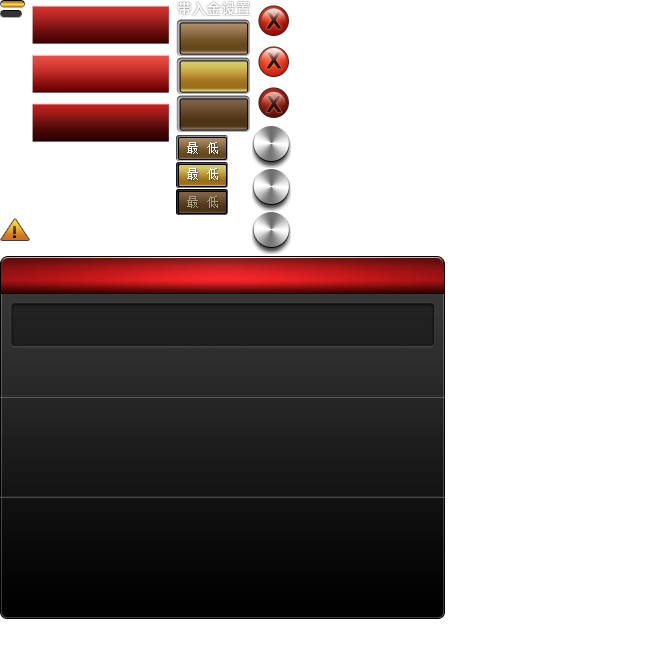
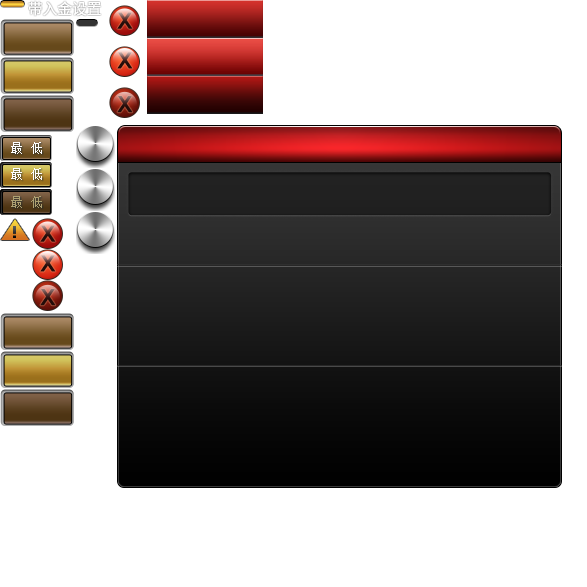
assein bug fix

diff --git a/bull_h5/bin/h5/bull_h5.max.js b/bull_h5/bin/h5/bull_h5.max.js
@@ -19430,7 +19430,7 @@ var Laya=window.Laya=(function(window,document){
 		*
 		*/
 		__proto.rechargeShow=function(type,callBack){
-			this.KGAPI.rechargeShow(callBack.method.bind(callBack.caller));
+			this.KGAPI.rechargeShow(callBack.method.bind(callBack.caller),type);
 		}
 
 		return KGH5;
@@ -20435,16 +20435,16 @@ var Laya=window.Laya=(function(window,document){
 				sp.width=Light.root.stage.width;
 				sp.height=Light.root.stage.height;
 				sp.mouseEnabled=true;
-				PopupManager.objDic[window]=sp;
+				PopupManager.objDic.set(window,sp);
 				}else{
 				parent.addChild(window);
-				PopupManager.objDic[window]=window;
+				PopupManager.objDic.set(window,sp);
 			}
 		}
 
 		PopupManager.removePopUp=function(popUp){
-			var sp=PopupManager.objDic[popUp];
-			delete PopupManager.objDic[popUp];
+			var sp=PopupManager.objDic.get(popUp);
+			PopupManager.objDic.remove(popUp);
 			if(popUp.parent){
 				popUp.parent.removeChild(popUp);
 			}
@@ -30212,13 +30212,13 @@ var Laya=window.Laya=(function(window,document){
 				betMin=(config.min_bet / 100)*10;
 				betMax=(this.roomData.player_Money.cash)/ 100;
 				nm=0;
-				hint="玩家上庄桌，不允许带入拟码。";
+				this.getAssetsPanel().tip="玩家上庄桌，不允许带入拟码。";
 			}
 			else{
 				betMin=(config.min_bet / 100)*10;
 				betMax=(this.roomData.player_Money.cash+this.roomData.player_Money.nm)/ 100;
 				nm=this.roomData.player_Money.nm;
-				hint="投注优先扣除拟码";
+				this.getAssetsPanel().tip="投注优先扣除拟码";
 			}
 			if (betMax < betMin){
 				Alert.show(Light.language.getSrting("alert_msg7"),"",AlertCancelPanel,null,Handler.create(this,this.GotoRecharge));
@@ -33943,6 +33943,7 @@ var Laya=window.Laya=(function(window,document){
 		LightEvent.ITEM_CLICK="item_click";
 		LightEvent.CREATCOMPLETE="creatComplete";
 		LightEvent.CHANGE="change";
+		LightEvent.USERINFO_CHANGE="userinfo_change";
 		LightEvent.COMPLETE="complete";
 		LightEvent.TIME_OUT="timeOut";
 		return LightEvent;
@@ -34182,7 +34183,9 @@ var Laya=window.Laya=(function(window,document){
 			this._interval=3000;
 			this.isReConnect=false;
 			this.name=null;
-			this._isConnectError=false;
+			this._isConnectingError=false;
+			this._isClose=false;
+			this._isConneced=false;
 			this._lengthNeedReceived=0;
 			this._hasReededHead=false;
 			this._dataByte=null;
@@ -34205,7 +34208,16 @@ var Laya=window.Laya=(function(window,document){
 
 		__proto.onConnectError=function(){
 			console.log("onConnectError");
-			this._isConnectError=true;
+			this._isConnectingError=true;
+			if(this._isConnectingError && this._isClose){
+				this.sentEvent();
+			}
+		}
+
+		__proto.sentEvent=function(){
+			console.log("连接失败");
+			this._isConnectingError=false;
+			this._isClose=false;
 			this.dispatchEvent(new SocketConnectEvent("connectFail"));
 		}
 
@@ -34218,6 +34230,8 @@ var Laya=window.Laya=(function(window,document){
 		__proto.connect=function(host,port){
 			this._host=host;
 			this._port=port;
+			this._isConnectingError=false;
+			this._isClose=false;
 			console.log("[SocketConnect] ","connect",host,port,this._currRetryTimes,this._retryTimes);
 			this._socket.connect(host,port);
 			this._currRetryTimes++;
@@ -34247,6 +34261,7 @@ var Laya=window.Laya=(function(window,document){
 			if ((typeof message=='string')){
 				console.log("is String");
 				}else if ((message instanceof ArrayBuffer)){
+				console.log("is ArrayBuffer");
 				this._dataByte=new Byte(message);
 				this._dataByte.endian="bigEndian";
 				this.dispatchEvent(new SocketConnectEvent("receive",this._dataByte));
@@ -34255,22 +34270,27 @@ var Laya=window.Laya=(function(window,document){
 
 		__proto.onSocketOpen=function(evt){
 			console.log('Socket connect success！',this._port);
+			this._isConneced=true;
 			this._currRetryTimes=0;
 			this.dispatchEvent(new SocketConnectEvent("connect"));
 		}
 
 		__proto.onSocketClose=function(evt){
-			console.log("onSocketClose")
-			if(this._isConnectError){
-				this._isConnectError=false;
-				return;
+			this._isClose=true;
+			console.log("SocketConnect onSocketClose",this._socket.connected,this._isConnectingError,this._isClose)
+			if(this._isConneced){
+				console.log("关闭连接");
+				this.clear();
+				this.dispatchEvent(new SocketConnectEvent("close"));
+				this.dispatchEvent(new SocketConnectEvent("connection dropped"));
+				}else{
+				if(this._isConnectingError && this._isClose){
+					this.sentEvent();
+				}
 			}
-			this.clear();
-			this.dispatchEvent(new SocketConnectEvent("close"));
-			this.dispatchEvent(new SocketConnectEvent("connection dropped"));
+			this._isConneced=false;
 		}
 
-		//reconnect();
 		__proto.clear=function(){
 			this._currRetryTimes=0;
 		}
@@ -51026,7 +51046,7 @@ var Laya=window.Laya=(function(window,document){
 		}
 
 		__static(AssetsInSliderUI,
-		['uiView',function(){return this.uiView={"type":"View","props":{"width":430,"runtime":"com.lightUI.KGameComponents.assetsInPanel.AssetsInSlider","height":45},"child":[{"type":"HSlider","props":{"y":17,"x":89,"width":251,"var":"slider","skin":"assetsIn/hslider.png","showLabel":false,"height":50}},{"type":"Button","props":{"y":1,"x":0,"var":"min_btn","skin":"assetsIn/highest.png"}},{"type":"Button","props":{"y":-2,"x":350,"var":"max_btn","skin":"assetsIn/highest.png"}},{"type":"Label","props":{"y":7,"x":363,"width":49,"text":"最 高","mouseEnabled":false,"height":28,"fontSize":20,"color":"#f6ebea"}},{"type":"Label","props":{"y":9,"x":14,"width":49,"text":"最 低","mouseEnabled":false,"height":28,"fontSize":20,"color":"#f6ebea"}},{"type":"Image","props":{"y":15,"x":82,"width":24,"var":"slider_bar","skin":"assetsIn/bar_hslider.png","sizeGrid":"1,7,1,4","height":12}}]};}
+		['uiView',function(){return this.uiView={"type":"View","props":{"width":430,"runtime":"com.lightUI.KGameComponents.assetsInPanel.AssetsInSlider","height":45},"child":[{"type":"HSlider","props":{"y":17,"x":81,"width":265,"var":"slider","skin":"assetsIn/hslider.png","showLabel":false,"height":50}},{"type":"Button","props":{"y":1,"x":0,"var":"min_btn","skin":"assetsIn/标签按钮常态.png"}},{"type":"Button","props":{"y":1,"x":350,"var":"max_btn","skin":"assetsIn/标签按钮常态.png"}},{"type":"Label","props":{"y":9,"x":364,"width":49,"text":"最 高","mouseEnabled":false,"height":28,"fontSize":20,"color":"#f6ebea"}},{"type":"Label","props":{"y":9,"x":14,"width":49,"text":"最 低","mouseEnabled":false,"height":28,"fontSize":20,"color":"#f6ebea"}},{"type":"Image","props":{"y":16,"x":88,"width":259,"var":"slider_bar","skin":"assetsIn/bar_hslider.png","sizeGrid":"1,7,1,4","height":12}}]};}
 		]);
 		return AssetsInSliderUI;
 	})(View)
@@ -54220,7 +54240,7 @@ var Laya=window.Laya=(function(window,document){
 		}
 
 		__static(LargePanelUI,
-		['uiView',function(){return this.uiView={"type":"Dialog","props":{"width":445,"height":573},"child":[{"type":"Image","props":{"y":0,"x":0,"skin":"assetsIn/longPanel.png"}},{"type":"Button","props":{"y":512,"x":233,"var":"btn_canel","skin":"assetsIn/Btn_bg.png"}},{"type":"Button","props":{"y":511,"x":51,"var":"btn_ok","skin":"assetsIn/Btn_bg.png"}},{"type":"Label","props":{"y":478,"x":68,"width":300,"var":"tips_txt","text":"拟码无法在 JackPot 和 Bonus 上使用!","height":30,"fontSize":15,"font":"微软雅黑","color":"#FF6511","align":"left"}},{"type":"Button","props":{"y":-2,"x":405,"var":"btnClose","skin":"assetsIn/closeBtn.png"}},{"type":"Label","props":{"y":53,"x":17,"width":412,"var":"roomName_txt","text":"新手桌","height":35,"fontSize":25,"color":"#b5b5b5","align":"center"}},{"type":"Label","props":{"y":102,"x":56,"width":106,"text":"带入范围：","height":33,"fontSize":20,"font":"微软雅黑","color":"#aeaeae","align":"center"}},{"type":"Label","props":{"y":105,"x":232,"width":196,"var":"range_txt","text":"0.3-0.7","height":26,"fontSize":20,"color":"#FFFFFF","align":"right"}},{"type":"Label","props":{"y":146,"x":59,"width":99,"text":"可用现金：","height":30,"fontSize":20,"font":"微软雅黑","color":"#aeaeae","align":"center"}},{"type":"Label","props":{"y":252,"x":55,"width":99,"text":"可用拟码：","name":"roomName_txt","height":33,"fontSize":20,"font":"微软雅黑","color":"#aeaeae","align":"center"}},{"type":"Label","props":{"y":366,"x":115,"width":168,"var":"amount_total_txt","text":"0.3-0.7","height":20,"fontSize":18,"color":"#FFFFFF","align":"left"}},{"type":"Label","props":{"y":148,"x":268,"width":161,"var":"total_cash_txt","text":"0.3-0.7","height":27,"fontSize":20,"color":"#FFFFFF","align":"right"}},{"type":"Label","props":{"y":421,"x":40,"width":61,"text":"拟 码：","height":30,"fontSize":18,"font":"微软雅黑","color":"#aeaeae","bold":false,"align":"left"}},{"type":"Label","props":{"y":362,"x":40,"width":58,"text":"总 计：","height":25,"fontSize":18,"font":"微软雅黑","color":"#aeaeae","align":"left"}},{"type":"Label","props":{"y":391,"x":40,"width":58,"text":"现 金：","height":28,"fontSize":18,"font":"微软雅黑","color":"#aeaeae","align":"left"}},{"type":"Label","props":{"y":257,"x":345,"width":85,"var":"total_nm_txt","text":"0.3-0.7","height":30,"fontSize":20,"color":"#FFFFFF","align":"right"}},{"type":"Label","props":{"y":395,"x":115,"width":171,"var":"cash_txt","text":"0.3-0.7","height":16,"fontSize":18,"color":"#FFFFFF","align":"left"}},{"type":"Label","props":{"y":425,"x":115,"width":169,"var":"nm_txt","text":"0.3-0.7","height":16,"fontSize":18,"color":"#FFFFFF","align":"left"}},{"type":"Image","props":{"y":474,"x":16,"skin":"assetsIn/warn2.png"}},{"type":"AssetsInSlider","props":{"y":187,"x":10,"var":"cash_slider","runtime":"com.lightUI.KGameComponents.assetsInPanel.AssetsInSlider"}},{"type":"AssetsInSlider","props":{"y":295,"x":10,"var":"nm_slider","runtime":"com.lightUI.KGameComponents.assetsInPanel.AssetsInSlider"}},{"type":"Label","props":{"y":5,"x":160,"width":135,"text":"带入金设置","mouseEnabled":false,"height":29,"fontSize":25,"color":"#f6ebea"}},{"type":"Label","props":{"y":521,"x":277,"width":62,"text":"取 消","mouseEnabled":false,"height":29,"fontSize":25,"color":"#f6ebea"}},{"type":"Label","props":{"y":520,"x":97,"width":62,"text":"确 定","mouseEnabled":false,"height":29,"fontSize":25,"color":"#f6ebea"}}]};}
+		['uiView',function(){return this.uiView={"type":"Dialog","props":{"width":445,"height":573},"child":[{"type":"Image","props":{"y":0,"x":0,"skin":"assetsIn/longPanel.png"}},{"type":"Button","props":{"y":517,"x":243,"var":"btn_canel","skin":"assetsIn/常用按钮.png"}},{"type":"Button","props":{"y":517,"x":88,"var":"btn_ok","skin":"assetsIn/常用按钮.png"}},{"type":"Label","props":{"y":478,"x":68,"width":300,"var":"tips_txt","text":"拟码无法在 JackPot 和 Bonus 上使用!","height":30,"fontSize":15,"font":"微软雅黑","color":"#FF6511","align":"left"}},{"type":"Button","props":{"y":3,"x":410,"var":"btnClose","skin":"assetsIn/关闭02.png"}},{"type":"Label","props":{"y":53,"x":17,"width":412,"var":"roomName_txt","text":"新手桌","height":35,"fontSize":25,"color":"#b5b5b5","align":"center"}},{"type":"Label","props":{"y":102,"x":56,"width":106,"text":"带入范围：","height":33,"fontSize":20,"font":"微软雅黑","color":"#aeaeae","align":"center"}},{"type":"Label","props":{"y":105,"x":232,"width":196,"var":"range_txt","text":"0.3-0.7","height":26,"fontSize":20,"color":"#FFFFFF","align":"right"}},{"type":"Label","props":{"y":146,"x":59,"width":99,"text":"可用现金：","height":30,"fontSize":20,"font":"微软雅黑","color":"#aeaeae","align":"center"}},{"type":"Label","props":{"y":252,"x":55,"width":99,"text":"可用拟码：","name":"roomName_txt","height":33,"fontSize":20,"font":"微软雅黑","color":"#aeaeae","align":"center"}},{"type":"Label","props":{"y":366,"x":115,"width":168,"var":"amount_total_txt","text":"0.3-0.7","height":20,"fontSize":18,"color":"#FFFFFF","align":"left"}},{"type":"Label","props":{"y":148,"x":268,"width":161,"var":"total_cash_txt","text":"0.3-0.7","height":27,"fontSize":20,"color":"#FFFFFF","align":"right"}},{"type":"Label","props":{"y":421,"x":40,"width":61,"text":"拟 码：","height":30,"fontSize":18,"font":"微软雅黑","color":"#aeaeae","bold":false,"align":"left"}},{"type":"Label","props":{"y":362,"x":40,"width":58,"text":"总 计：","height":25,"fontSize":18,"font":"微软雅黑","color":"#aeaeae","align":"left"}},{"type":"Label","props":{"y":391,"x":40,"width":58,"text":"现 金：","height":28,"fontSize":18,"font":"微软雅黑","color":"#aeaeae","align":"left"}},{"type":"Label","props":{"y":257,"x":345,"width":85,"var":"total_nm_txt","text":"0.3-0.7","height":30,"fontSize":20,"color":"#FFFFFF","align":"right"}},{"type":"Label","props":{"y":395,"x":115,"width":171,"var":"cash_txt","text":"0.3-0.7","height":16,"fontSize":18,"color":"#FFFFFF","align":"left"}},{"type":"Label","props":{"y":425,"x":115,"width":169,"var":"nm_txt","text":"0.3-0.7","height":16,"fontSize":18,"color":"#FFFFFF","align":"left"}},{"type":"Image","props":{"y":474,"x":16,"skin":"assetsIn/warn2.png"}},{"type":"AssetsInSlider","props":{"y":187,"x":10,"var":"cash_slider","runtime":"com.lightUI.KGameComponents.assetsInPanel.AssetsInSlider"}},{"type":"AssetsInSlider","props":{"y":295,"x":10,"var":"nm_slider","runtime":"com.lightUI.KGameComponents.assetsInPanel.AssetsInSlider"}},{"type":"Label","props":{"y":5,"x":160,"width":135,"text":"带入金设置","mouseEnabled":false,"height":29,"fontSize":25,"color":"#f6ebea"}},{"type":"Label","props":{"y":522,"x":270,"width":62,"text":"取 消","mouseEnabled":false,"height":29,"fontSize":25,"color":"#f6ebea"}},{"type":"Label","props":{"y":522,"x":116,"width":62,"text":"确 定","mouseEnabled":false,"height":29,"fontSize":25,"color":"#f6ebea"}}]};}
 		]);
 		return LargePanelUI;
 	})(Dialog)
@@ -54252,7 +54272,7 @@ var Laya=window.Laya=(function(window,document){
 		}
 
 		__static(SmallPanelUI,
-		['uiView',function(){return this.uiView={"type":"Dialog","props":{"width":445,"height":363},"child":[{"type":"Image","props":{"y":0,"x":0,"skin":"assetsIn/smallPanel.png"}},{"type":"Button","props":{"y":304,"x":242,"var":"cancel_btn","skin":"assetsIn/Btn_bg.png"}},{"type":"Button","props":{"y":304,"x":66,"var":"ok_btn","skin":"assetsIn/Btn_bg.png"}},{"type":"Label","props":{"y":247,"x":353,"width":82,"var":"maxmum_txt","text":"(1700)","height":30,"fontSize":20,"font":"微软雅黑","color":"#FFFFFF","align":"right"}},{"type":"Label","props":{"y":247,"x":21,"width":82,"var":"minmum_txt","text":"(700)","height":32,"fontSize":20,"font":"微软雅黑","color":"#FFFFFF","align":"left"}},{"type":"Label","props":{"y":145,"x":44,"width":112,"var":"amount_describe_txt","text":"带入金额：","height":28,"fontSize":22,"font":"微软雅黑","color":"#b5b5b5"}},{"type":"Label","props":{"y":106,"x":246,"width":179,"var":"total_txt","text":"¥4512，567，57","height":29,"fontSize":20,"font":"微软雅黑","color":"#E8D07A","align":"right"}},{"type":"Label","props":{"y":104,"x":43,"width":109,"var":"total_describe_txt","text":"可用G 币：","height":28,"fontSize":22,"font":"微软雅黑","color":"#b5b5b5"}},{"type":"Label","props":{"y":56,"x":24,"width":390,"var":"roomName_txt","text":"新手场1桌","height":33,"fontSize":20,"color":"#b5b5b5","align":"center"}},{"type":"Image","props":{"y":7,"x":182,"width":98,"skin":"assetsIn/carryInFont.png","height":24}},{"type":"Button","props":{"y":-2,"x":408,"var":"close_btn","skin":"assetsIn/closeBtn.png"}},{"type":"Label","props":{"y":151,"x":264,"width":162,"var":"amount_txt","text":"¥4512，567，57","height":26,"fontSize":20,"font":"微软雅黑","color":"#E8D07A","align":"right"}},{"type":"AssetsInSlider","props":{"y":192,"x":9,"var":"slider","runtime":"com.lightUI.KGameComponents.assetsInPanel.AssetsInSlider"}},{"type":"Label","props":{"y":313,"x":111,"width":62,"text":"确 定","mouseEnabled":false,"height":29,"fontSize":25,"color":"#f6ebea"}},{"type":"Label","props":{"y":313,"x":286,"width":62,"text":"取 消","mouseEnabled":false,"height":29,"fontSize":25,"color":"#f6ebea"}}]};}
+		['uiView',function(){return this.uiView={"type":"Dialog","props":{"width":445,"height":363},"child":[{"type":"Image","props":{"y":0,"x":0,"skin":"assetsIn/smallPanel.png"}},{"type":"Button","props":{"y":304,"x":258,"var":"cancel_btn","skin":"assetsIn/常用按钮.png"}},{"type":"Button","props":{"y":305,"x":81,"var":"ok_btn","skin":"assetsIn/常用按钮.png"}},{"type":"Label","props":{"y":247,"x":353,"width":82,"var":"maxmum_txt","text":"(1700)","height":30,"fontSize":20,"font":"微软雅黑","color":"#FFFFFF","align":"right"}},{"type":"Label","props":{"y":247,"x":21,"width":82,"var":"minmum_txt","text":"(700)","height":32,"fontSize":20,"font":"微软雅黑","color":"#FFFFFF","align":"left"}},{"type":"Label","props":{"y":145,"x":44,"width":112,"var":"amount_describe_txt","text":"带入金额：","height":28,"fontSize":22,"font":"微软雅黑","color":"#b5b5b5"}},{"type":"Label","props":{"y":106,"x":246,"width":179,"var":"total_txt","text":"¥4512，567，57","height":29,"fontSize":20,"font":"微软雅黑","color":"#E8D07A","align":"right"}},{"type":"Label","props":{"y":104,"x":43,"width":109,"var":"total_describe_txt","text":"可用G 币：","height":28,"fontSize":22,"font":"微软雅黑","color":"#b5b5b5"}},{"type":"Label","props":{"y":56,"x":24,"width":390,"var":"roomName_txt","text":"新手场1桌","height":33,"fontSize":20,"color":"#b5b5b5","align":"center"}},{"type":"Image","props":{"y":7,"x":182,"width":98,"skin":"assetsIn/carryInFont.png","height":24}},{"type":"Button","props":{"y":3,"x":410,"var":"close_btn","skin":"assetsIn/关闭02.png"}},{"type":"Label","props":{"y":151,"x":264,"width":162,"var":"amount_txt","text":"¥4512，567，57","height":26,"fontSize":20,"font":"微软雅黑","color":"#E8D07A","align":"right"}},{"type":"AssetsInSlider","props":{"y":192,"x":9,"var":"slider","runtime":"com.lightUI.KGameComponents.assetsInPanel.AssetsInSlider"}},{"type":"Label","props":{"y":310,"x":109,"width":62,"text":"确 定","mouseEnabled":false,"height":29,"fontSize":25,"color":"#f6ebea"}},{"type":"Label","props":{"y":309,"x":286,"width":62,"text":"取 消","mouseEnabled":false,"height":29,"fontSize":25,"color":"#f6ebea"}}]};}
 		]);
 		return SmallPanelUI;
 	})(Dialog)
@@ -54996,10 +55016,17 @@ var Laya=window.Laya=(function(window,document){
 			this.smallPanel.clear();
 		}
 
-		// }
+		__getset(0,__proto,'tip',function(){
+			return this.largePanel.tip;
+			},function(value){
+			this.largePanel.tip=value;
+		});
+
 		__getset(0,__proto,'roomName',function(){
+			return this.largePanel.roomName;
 			return this.smallPanel.roomName;
 			},function(value){
+			this.largePanel.roomName=value;
 			this.smallPanel.roomName=value;
 		});
 
@@ -55017,12 +55044,18 @@ var Laya=window.Laya=(function(window,document){
 			this.slider.on("change",this,this.onChange);
 			this.callLater(this.test);
 			this.slider_bar.width=0;
+			this.slider.on("barMove",this,this.onMove);
 		}
 
 		__class(AssetsInSlider,'com.lightUI.KGameComponents.assetsInPanel.AssetsInSlider',_super);
 		var __proto=AssetsInSlider.prototype;
+		__proto.onMove=function(value){
+			this.slider_bar.width=(value-this.slider.min)/(this.slider.max-this.slider.min)*this.slider.width;
+		}
+
+		// }
 		__proto.onChange=function(){
-			this.slider_bar.width=(this.slider.value-this.slider.min)/(this.slider.max-this.slider.min)*188;
+			this.slider_bar.width=(this.slider.value-this.slider.min)/(this.slider.max-this.slider.min)*this.slider.width;
 		}
 
 		__proto.test=function(){
